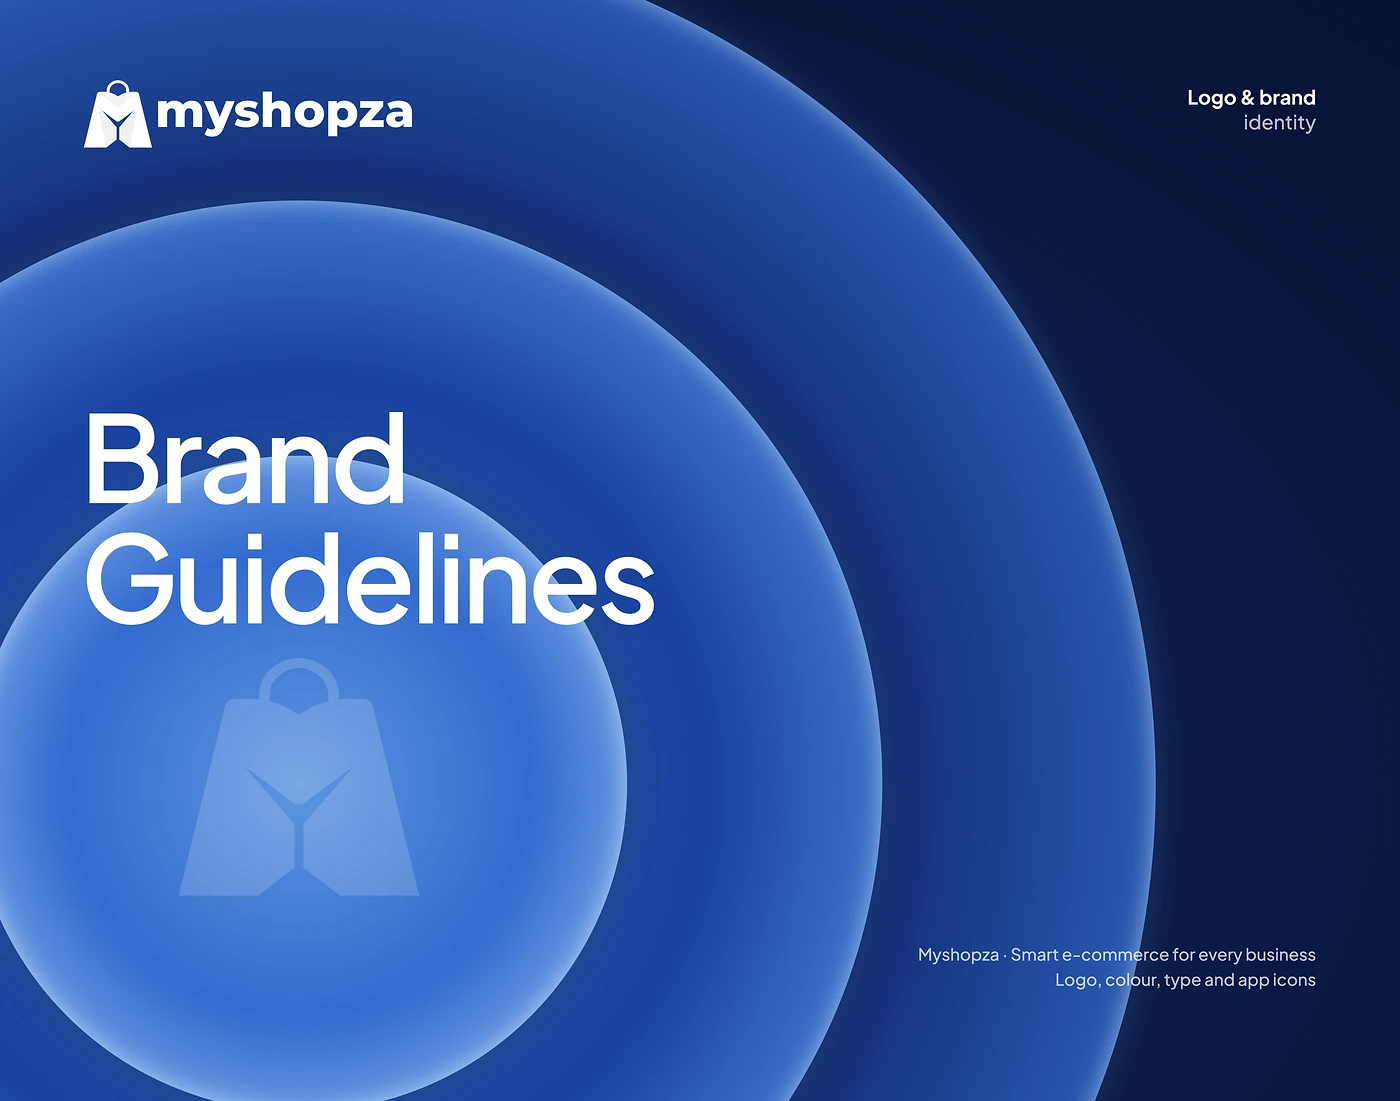
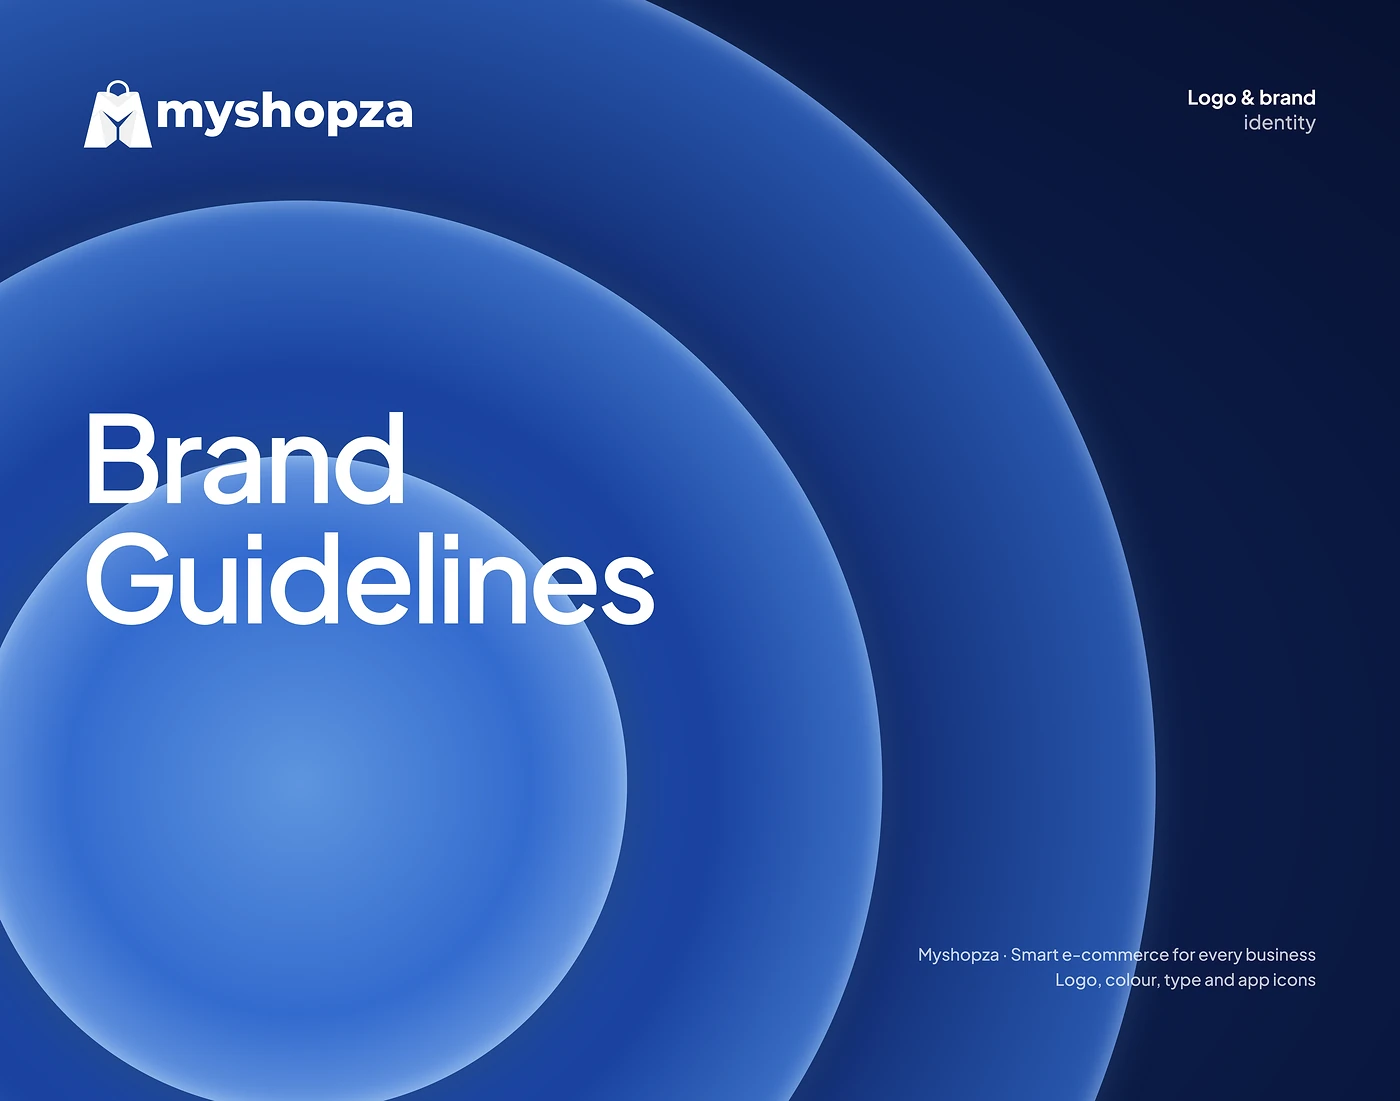
Auto-sync: update 8 file(s)
assets/images/projects/myshopza/cover-info.json assets/images/projects/myshopza/cover.webp assets/images/projects/myshopza/cover@1400.webp assets/images/projects/myshopza/cover@2000.webp assets/images/projects/myshopza/cover@640.webp

Changed region(s): [[0.1229, 0.5867, 0.3071, 0.8338]]

diff --git a/projects/myshopza.html b/projects/myshopza.html
@@ -123,7 +123,7 @@ symbol .mz-wm .mz-b,symbol .mz-wm .mz-n{fill:var(--lt,#22428d)}symbol .mz-wm .mz
       <p class="cs-outcome"><b>Outcome</b> A logo for Myshopza's e-commerce software: a shopping bag that also reads as an M, delivered with light and dark lockups, app icons and favicons.</p>
       <div class="cs-meta"><span>Logo</span><span>Brand identity</span><span>UX/UI design</span></div>
     </section>
-    <div class="cs-shot" data-slide style="view-transition-name:shot-myshopza;view-transition-class:shot"><img src="/assets/images/projects/myshopza/cover.webp" width="3840" height="3020" alt="Myshopza Brand Guidelines cover: the white logo and title on deep blue, with three glowing rings on the left around a faint shopping-bag mark" fetchpriority="high" decoding="sync" /></div>
+    <div class="cs-shot" data-slide style="view-transition-name:shot-myshopza;view-transition-class:shot"><img src="/assets/images/projects/myshopza/cover.webp" width="3840" height="3020" alt="Myshopza Brand Guidelines cover: the white logo and title on deep blue, with three glowing rings on the left" fetchpriority="high" decoding="sync" /></div>
 
     <!-- The brand presentation -->
     <div class="mz-deck mz-x"><section class="mz-s mz-auto mz-ov"><div class="mz-in"><span class="mz-pill">Project overview</span>
